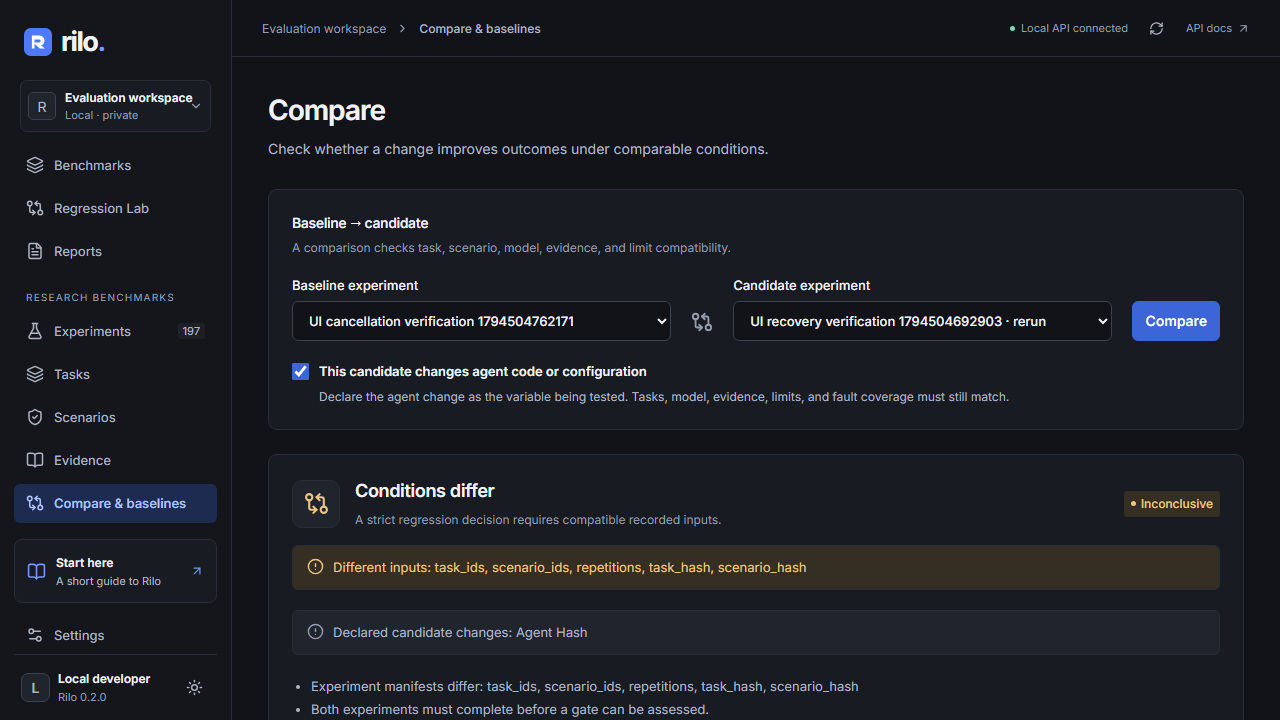
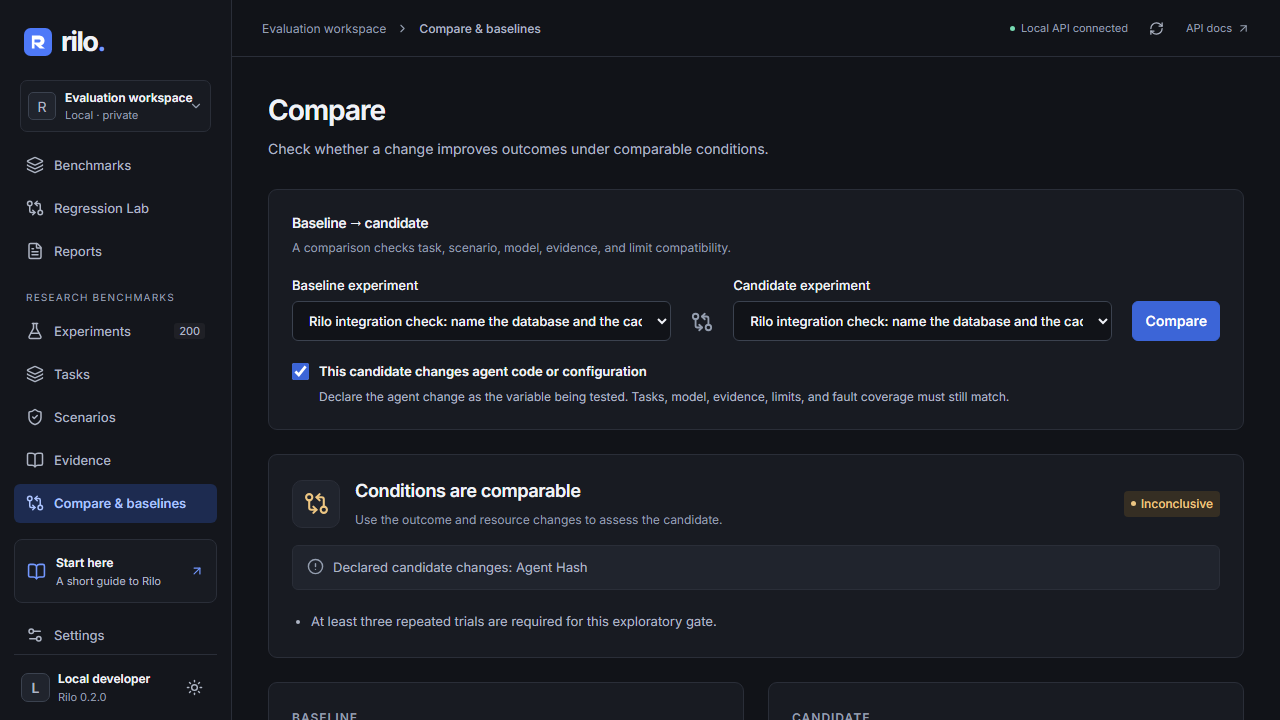
Support newer npm installs and establish comparison test sessions

diff --git a/frontend/tests/workspace.spec.ts b/frontend/tests/workspace.spec.ts
@@ -611,11 +611,16 @@ test("declared agent change posts the real flag and explicitly simulated record 
 }) => {
   await page.goto("/");
   await connected(page);
-  const available = (
-    (await (
-      await page.request.get("/api/v1/experiments")
-    ).json()) as Experiment[]
-  ).filter((experiment) => !["queued", "running"].includes(experiment.state));
+  // Establish the direct API client's cookie before relying on its response shape.
+  const sessionResponse = await page.request.get("/api/v1/session");
+  expect(sessionResponse.ok()).toBe(true);
+  const experimentsResponse = await page.request.get("/api/v1/experiments");
+  expect(experimentsResponse.ok()).toBe(true);
+  const experiments = (await experimentsResponse.json()) as Experiment[];
+  expect(Array.isArray(experiments)).toBe(true);
+  const available = experiments.filter(
+    (experiment) => !["queued", "running"].includes(experiment.state),
+  );
   test.skip(
     available.length < 2,
     "Requires two real experiment records for the comparison request.",

diff --git a/docs/STORAGE_STATUS_FIX_2026-11-13.md b/docs/STORAGE_STATUS_FIX_2026-11-13.md
@@ -75,3 +75,28 @@ Its source text is an explicit supplied SQLite/Redis example, not a live researc
 query or general accuracy benchmark. The
 [captured check matrix](ui-evidence/promptfoo-real-paired-checks.png) is refreshed
 from this actual browser run.
+
+## Setup portability and browser test follow-up
+
+The patched release with live evidence, `2a1fdb5`, passed all
+[GitHub checks](https://github.com/Gauravwakle96/RILO/actions/runs/43396589847).
+An earlier patched-runtime workflow had intermittent browser failures: a direct
+test API request returned an error object before filtering records, and the
+following mobile check missed API readiness. The comparison test now explicitly
+establishes its own API session and asserts HTTP success and array shape before
+using the records. The comparison and 390-pixel tests passed locally afterward.
+No authorization checks or failing test cases were removed.
+
+Newer npm 11.11.0 also required five existing optional dependency paths omitted by
+npm 11.6.1's lockfile layout. The lockfile now includes those resolved optional
+entries while retaining earlier nested entries required by npm 11.6.1. Both npm
+versions accept the lockfile in clean-install dry runs. This does not add database
+services or provider integrations to Rilo; they remain transitive optional
+dependencies of the assertion package. Existing locked versions are preserved.
+
+The final npm 11.11.0 clean install passed with zero reported vulnerabilities.
+All eighteen Promptfoo backend tests passed in 46.52 seconds afterward. The
+Python package built successfully, and the final restarted API/worker passed
+readiness plus forty concurrent storage reads. The two targeted comparison/mobile
+browser tests passed in 36.4 seconds and frontend lint passed. The existing
+provider/model settings and evaluation history were preserved throughout.
